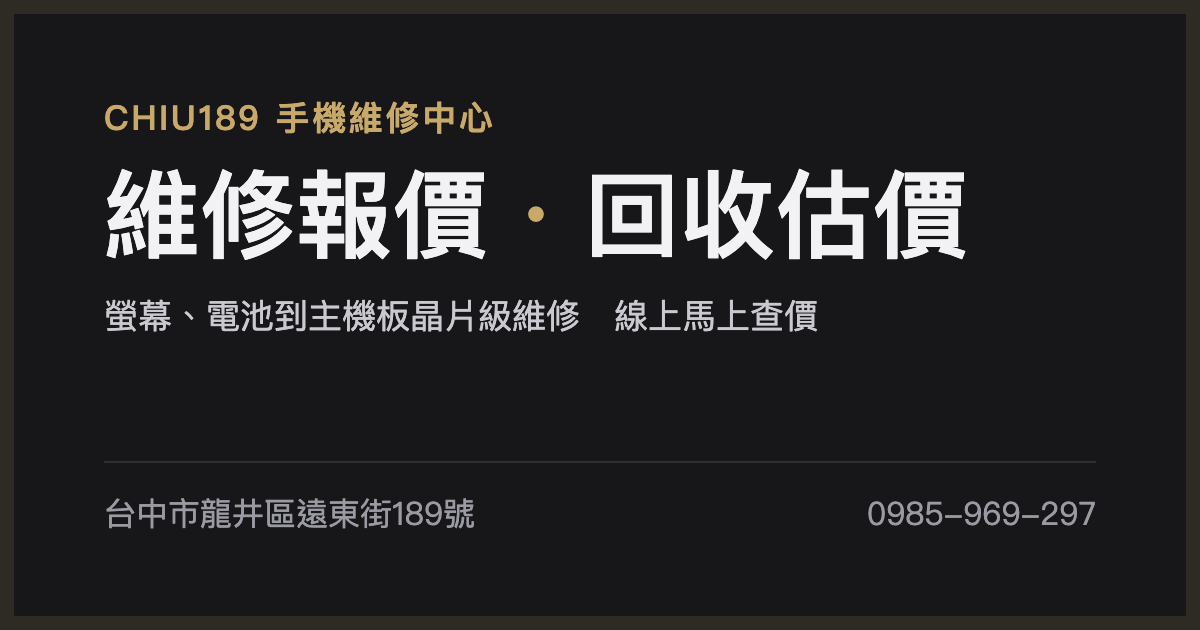
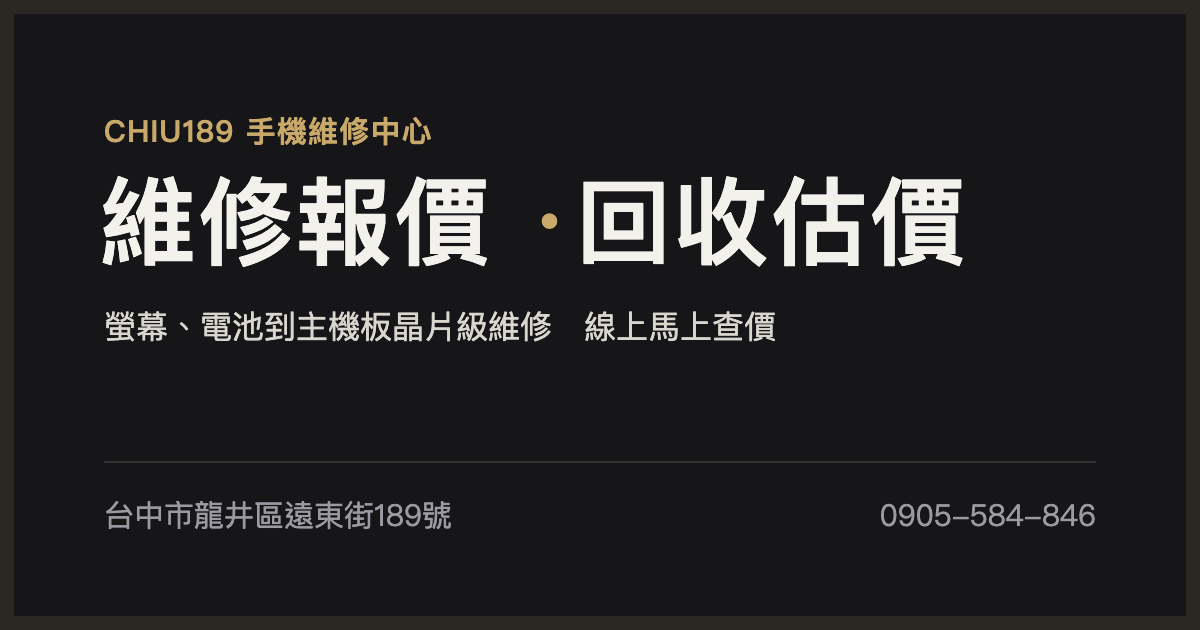
店裡電話改成 0905-584-846（網站與預覽圖）

diff --git a/recycle.html b/recycle.html
@@ -141,7 +141,7 @@ const CONFIG = {
   SHEET_CSV_URL: "https://docs.google.com/spreadsheets/d/e/2PACX-1vTGj8-fekjCYagdyOKo_9zq9WXo_cX-8iAeTjBWY9at2QyX4w_nfxDGUFlYPUyb36yHmqvnDuGQfCDN/pub?gid=151823069&single=true&output=csv",  // Google 試算表「CHIU189 價目表」回收分頁
   LOCAL_CSV: "recycle.csv",
   LINE_OA_ID: "@891llnje",
-  PHONE: "0985-969-297",
+  PHONE: "0905-584-846",
   ADDRESS: "台中市龍井區遠東街189號",
   MAP_URL: "https://maps.app.goo.gl/GdYtfryHyToNYyn66",  // Google 商家「Chiu189 手機維修-東海店」
   HOURS: "營業時間 中午12:00-下午22:00（週一公休）",

diff --git a/index.html b/index.html
@@ -182,7 +182,7 @@ const CONFIG = {
   LOCAL_CSV: "prices.csv",
   // LINE 官方帳號 ID（例如 "@abc1234"）；留空會改用 LINE 分享，讓客人自己選要傳給誰
   LINE_OA_ID: "@891llnje",
-  PHONE: "0985-969-297",
+  PHONE: "0905-584-846",
   ADDRESS: "台中市龍井區遠東街189號",
   MAP_URL: "https://maps.app.goo.gl/GdYtfryHyToNYyn66",  // Google 商家「Chiu189 手機維修-東海店」
   HOURS: "營業時間 中午12:00-下午22:00（週一公休）",
